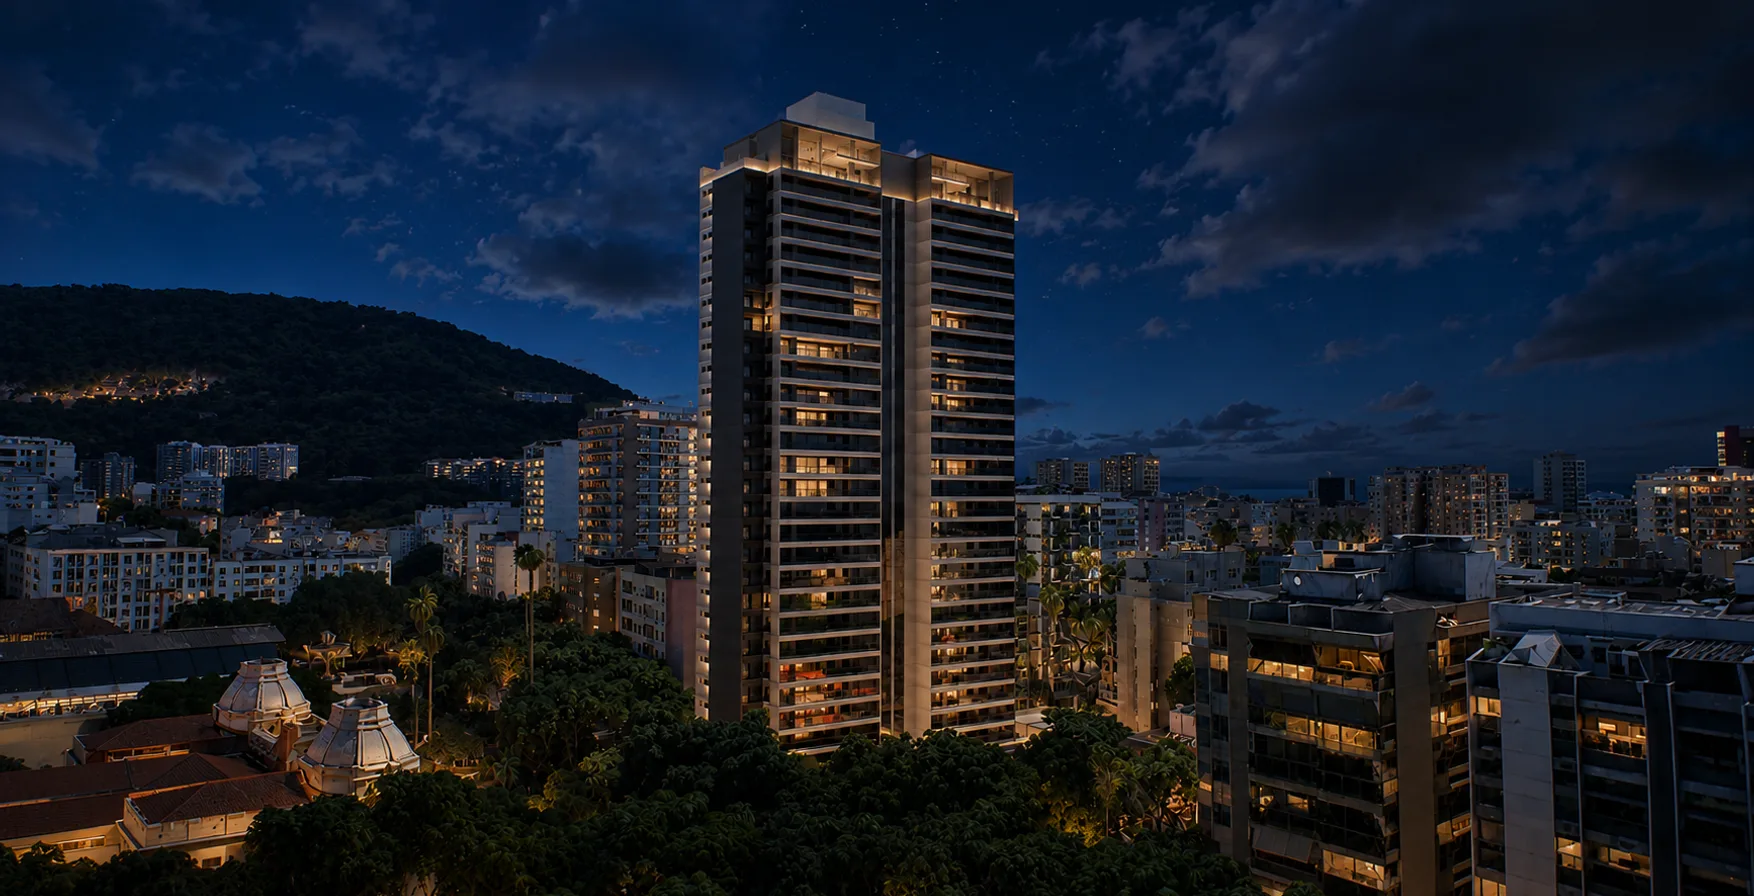
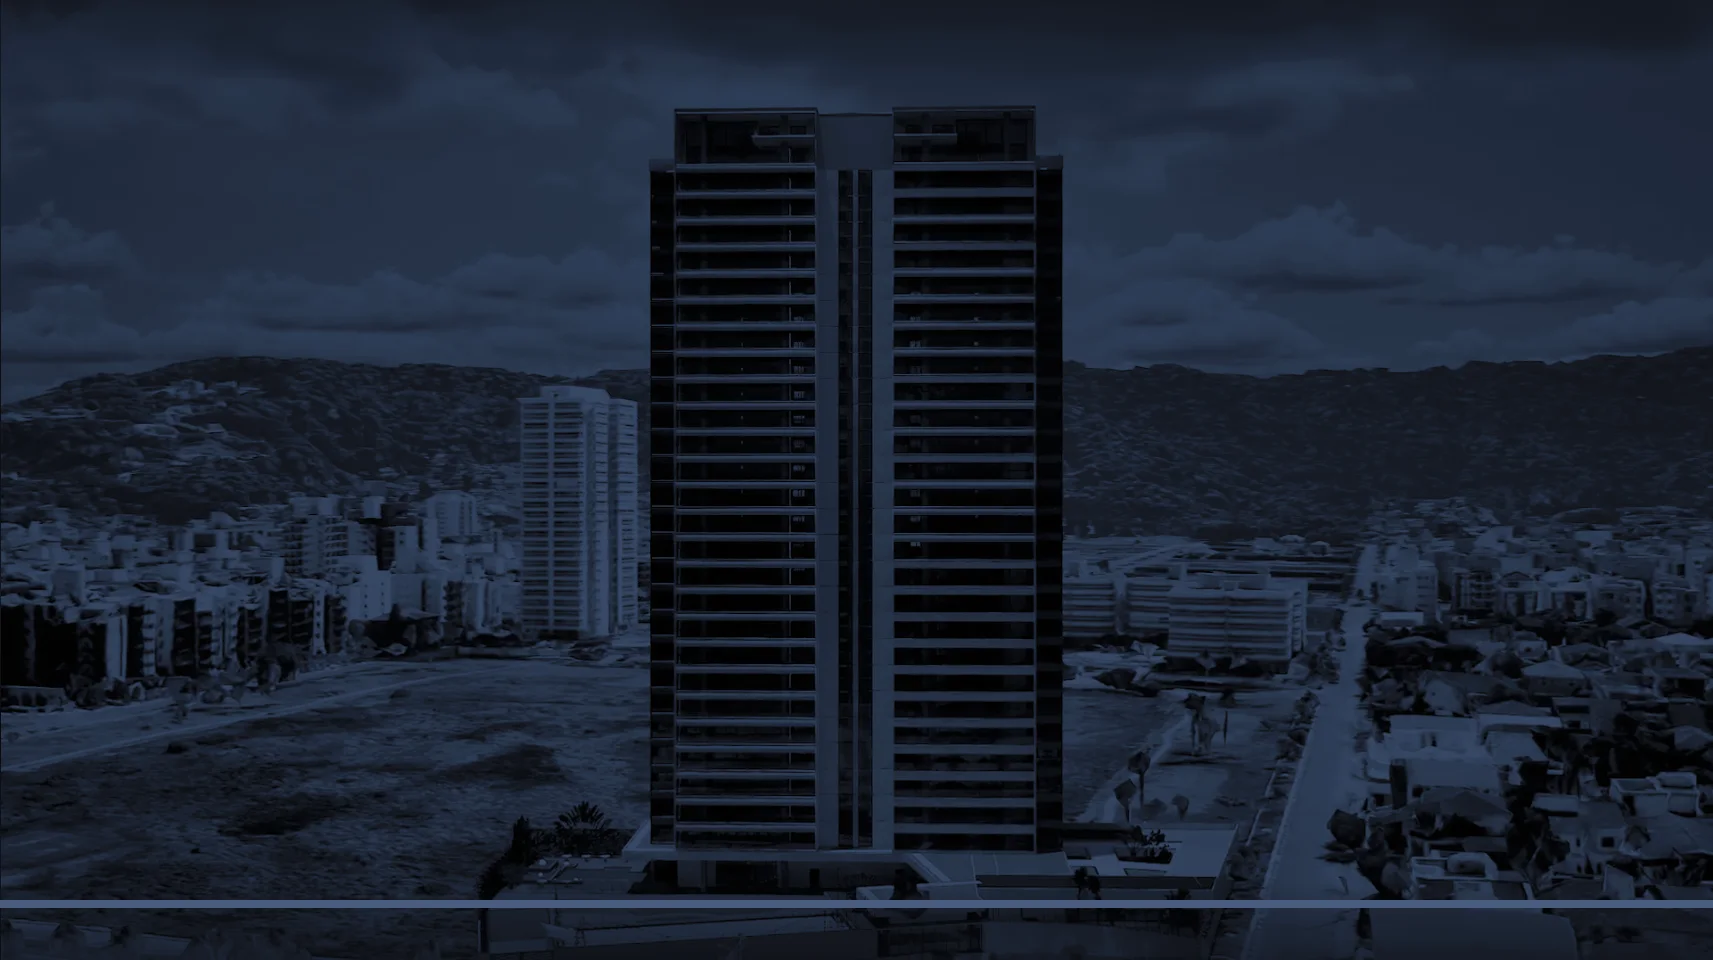
feat: new near-frontal twin-tower hero + recalibrated hotspots
Swap the hero background to the new twin-tower render (image.png);
diurno.webp is the still, noturno.webp is an auto dark-graded dusk
version (no real night render yet). Recalibrate the apartment hotspot
faces to the two near-frontal tower slabs (IMG 1713x960), so the
perspective grid lands on the building.

diff --git a/src/components/apartments/apartments-overlay.tsx b/src/components/apartments/apartments-overlay.tsx
@@ -26,8 +26,8 @@ const VIEWS: ViewType[] = ["City", "Park", "Ocean", "Mountain"];
 // mapped through a square→quad homography, so cells become trapezoids that
 // follow the building's perspective. Recalibrate by editing FACADE_QUAD
 // (TL, TR, BR, BL) — replace with the user's annotated corners for an exact fit.
-const IMG_W = 1754;
-const IMG_H = 896;
+const IMG_W = 1713;
+const IMG_H = 960;
 
 type Pt = [number, number];
 type Quad = { TL: Pt; TR: Pt; BR: Pt; BL: Pt };
@@ -38,13 +38,13 @@ type Quad = { TL: Pt; TR: Pt; BR: Pt; BL: Pt };
 // rainbow-annotated render (same composition as diurno.webp).
 const FACES: { quad: Quad; lines: string[] }[] = [
   {
-    // left face — narrower, recedes to the left of the seam
-    quad: { TL: [40.0, 19.6], TR: [48.2, 14.4], BR: [49.3, 81.7], BL: [40.2, 78.0] },
+    // left tower slab (near-frontal)
+    quad: { TL: [38.0, 16.0], TR: [49.4, 16.0], BR: [49.4, 88.0], BL: [38.0, 88.0] },
     lines: ["A"],
   },
   {
-    // right/front face — broader, right of the seam
-    quad: { TL: [48.2, 14.4], TR: [57.5, 19.0], BR: [57.8, 81.0], BL: [49.3, 81.7] },
+    // right tower slab
+    quad: { TL: [50.2, 16.0], TR: [62.0, 16.0], BR: [62.0, 88.0], BL: [50.2, 88.0] },
     lines: ["B", "C"],
   },
 ];